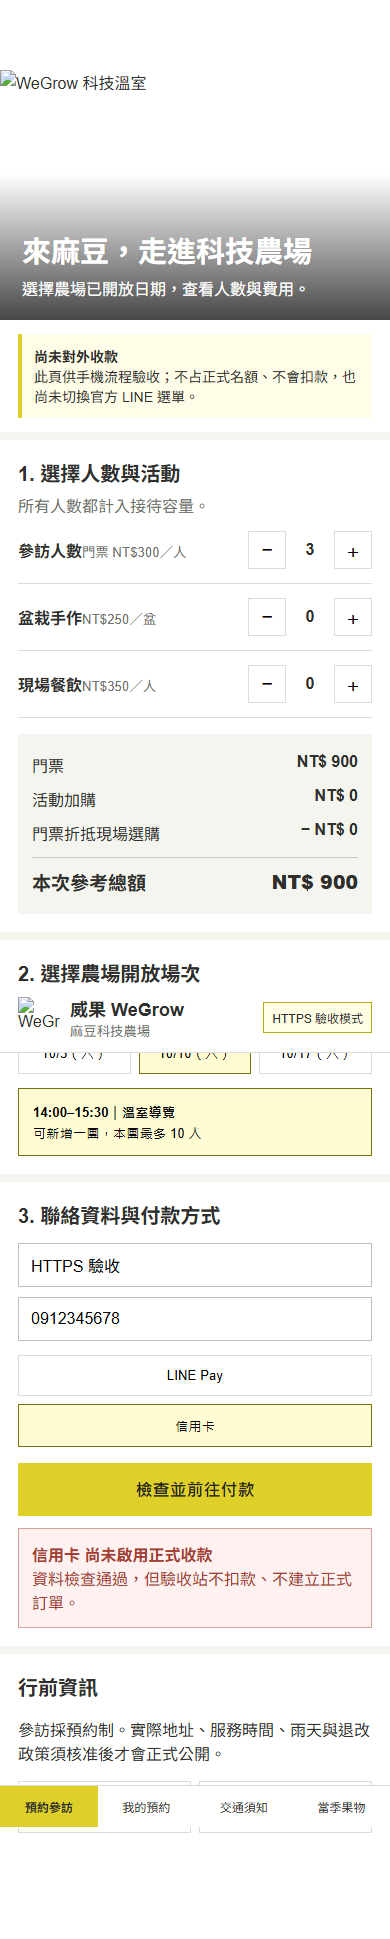
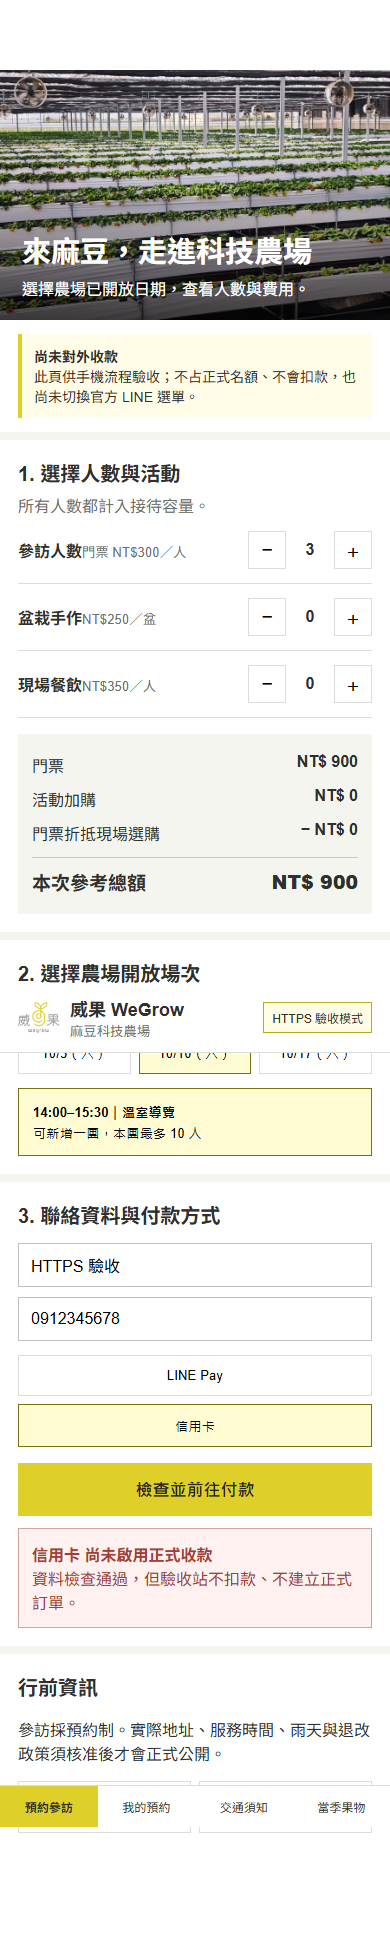
docs: record public booking QA evidence

Changed region(s): [[0.0, 0.0309, 1.0, 0.1857], [0.0308, 0.4951, 0.1231, 0.557]]

diff --git a/farm-booking/aama-tennis-club-share/docs/20260916_LINE_LANDING_REPAIR_RESULT.md b/farm-booking/aama-tennis-club-share/docs/20260916_LINE_LANDING_REPAIR_RESULT.md
@@ -2,6 +2,12 @@
 
 日期：2026-09-16
 
+Git：`clement0428/Wegrow_Sales` / `master`
+
+實作 commit：[`0cd5808`](https://github.com/clement0428/Wegrow_Sales/commit/0cd5808742aa3e9f6a98fb2b472934b1b62f0784)
+
+Pages 發布修正 commit：[`2cef6d4`](https://github.com/clement0428/Wegrow_Sales/commit/2cef6d4af1ba3a04d28eff63458d10ab57f242aa)
+
 ## 結論
 
 已完成可操作的本機審查版本，但未發布到 WeGrow 官方 LINE，也未宣稱正式金流、LIFF、提醒或 Sales 同步完成。正式發布仍需 Clement 核准預覽與提供外部服務設定。
@@ -15,7 +21,7 @@
 - 交通與須知：`/visit-info`
 - 聯絡農場：`/contact`
 - 當季果物：https://wegrow.oen.tw/
-- HTTPS 驗收站：`https://wegrow-orbit.com/Wegrow_Sales/outputs/line-farm-booking-qa/`（推送後由既有 GitHub Pages 發布）
+- HTTPS 驗收站：https://wegrow-orbit.com/Wegrow_Sales/outputs/line-farm-booking-qa/
 - 正式預約後端網址：尚未部署；驗收站不收款、不占正式名額
 
 ## 本輪實作
@@ -47,6 +53,9 @@
 - Production-mode E2E：7 組 PASS。
 - E2E 結果：`qa/e2e-result.json`
 - 手機截圖：`qa/farm-mobile-home.png`、`qa/farm-mobile-payment-blocked.png`
+- HTTPS 手機截圖：`qa/https-review-mobile.png`
+- GitHub Pages deployment：[run 35076190378](https://github.com/clement0428/Wegrow_Sales/actions/runs/35076190378)，PASS。
+- 公開網址檢查：HTTP 200；390px Chromium 完整互動 PASS。
 
 ## E01-E16 驗收狀態
 
@@ -54,7 +63,7 @@
 |---|---|---|
 |E01|BLOCKED|尚無核准的公開 HTTPS 網址，未改正式 LINE 首頁。|
 |E02|BLOCKED|未獲授權修改 LINE 圖文選單，亦未核對 API／per-user 覆蓋。|
-|E03|VERIFIED|匿名本機預覽可用，顧客頁不顯示 CRM 或管理入口。|
+|E03|VERIFIED|匿名 HTTPS 驗收站可用，顧客頁不顯示 CRM、管理入口或他人訂單。|
 |E04|BLOCKED|缺正式 LIFF ID、LINE Login channel 與 HTTPS callback。|
 |E05|VERIFIED|`tests/farm/capacity.test.ts` 與 `booking-operations.test.ts` 覆蓋 1 團 50、2 團 30、3 團 15，以及新增團體使上限下降的情況。|
 |E06|PARTIAL|原子帳本模擬兩筆同時搶位，只允許一筆成功；正式 D1 transaction 與供應商防重扣仍待驗收。|
@@ -64,10 +73,10 @@
 |E10|PARTIAL|前一天 18:00 Asia/Taipei、改期版本去重與未確認不排提醒已有測試；真實 LINE 發送未配置。|
 |E11|BLOCKED|折抵試算已完成，持久核銷、撤銷與財務對帳尚未實作。|
 |E12|PARTIAL|模擬事件有穩定 eventId 且取消建立新版本；缺 Sales production ingest／login，尚未做真實重播驗收。|
-|E13|VERIFIED|360–1024px E2E 通過，無橫向溢出與主要操作遮擋。|
-|E14|PARTIAL|正式建置匿名本機驗證通過；公開網址尚未部署。|
+|E13|VERIFIED|360–1024px Next E2E 通過；390px 公開 HTTPS E2E 通過，無橫向溢出與主要操作遮擋。|
+|E14|VERIFIED|公開 HTTPS 驗收站匿名可用；管理入口未暴露。正式後端仍與驗收站清楚分開。|
 |E15|VERIFIED|所有日期均標示 preview seed，金流未配置不顯示付款成功。|
-|E16|BLOCKED|尚未公開部署，無正式選單版本與 rollback 證據。|
+|E16|PARTIAL|Pages commit、deployment run 與前一版本可追溯／回復；正式 LINE 選單未切換，因此選單 rollback 待驗收。|
 
 ## 外部阻擋
 
